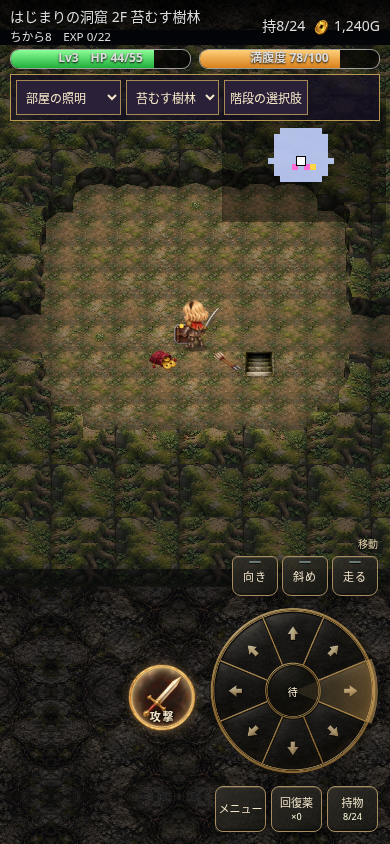
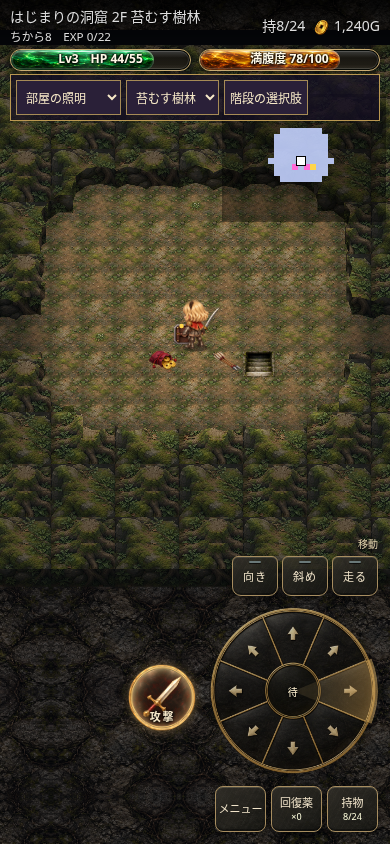
Record production approval and final UI validation

Changed region(s): [[0.0308, 0.0308, 0.9846, 0.0924]]

diff --git a/docs/SPRITE_PRODUCTION_HANDOVER.md b/docs/SPRITE_PRODUCTION_HANDOVER.md
@@ -1,5 +1,11 @@
 # 承認済みキャラクター・武器・盾の制作引き継ぎ
 
+## 本番採用：移動・メニュー・生成UI（2026-10-21）
+
+ユーザーの「いいね、ここまで実装して」でPR #8一式の本番反映を承認。0ターンの向き変更・斜め固定・安全ダッシュ、共通メニュー、横両手と左右片手の操作配置、漆・真鍮の生成8方向円形操作盤、生成剣メダリオン、エメラルド／琥珀の液体宝石バーを採用。以下のPR #8の「main未反映」「確認用」は採用前の制作履歴。ダンジョン内店舗の新システム・店主、新モンスター追加は引き続き別工程。
+
+本編 https://yyvape-dev.github.io/Fushigi/ 、確認画面 https://yyvape-dev.github.io/Fushigi/fushigi-controls-ui-v1/review.html 。セーブの互換性を維持し、確認画面のセーブは分離。生成資料と操作・表示検証は `fushigi-controls-ui-v1/` を参照。
+
 ## 宝石液体のHUDバー（2026-10-21）
 
 ユーザー要望によりHPをエメラルド、満腹度を琥珀の液体宝石へ変更。生成原画 `assets/ui-art/gem-liquid-atlas.png` の上下をCSSで表示し、`assets/gem-bars.css` で真鍮の枠・ガラス反射・控えめな光の揺らぎを加えた。バー幅と数値は既存の実際の値。HP25%以下／満腹度10以下の赤警告は質感を残す色相変更へ移行。動きを減らす設定に対応。3画面サイズで満タン・半分・少量・ゼロ、画像読込、警告色を確認（`check_gem_bars.py`）。生成記録は `source-art/gem-liquid-prompt.txt`。PR #8確認用、main未反映。

diff --git a/docs/HANDOVER.md b/docs/HANDOVER.md
@@ -1,5 +1,11 @@
 # 引き継ぎ資料（Fushigi：シレン風・個人用）
 
+## 本番採用：移動・メニュー・生成UI（2026-10-21）
+
+ユーザーの「いいね、ここまで実装して」でPR #8一式の本番反映を承認。0ターンの向き変更・斜め固定・安全ダッシュ、共通メニュー、横両手と左右片手の操作配置、漆・真鍮の生成8方向円形操作盤、生成剣メダリオン、エメラルド／琥珀の液体宝石バーを採用。以下のPR #8の「main未反映」「確認用」は採用前の制作履歴。ダンジョン内店舗の新システム・店主、新モンスター追加は引き続き別工程。
+
+本編 https://yyvape-dev.github.io/Fushigi/ 、確認画面 https://yyvape-dev.github.io/Fushigi/fushigi-controls-ui-v1/review.html 。セーブの互換性を維持し、確認画面のセーブは分離。生成資料と操作・表示検証は `fushigi-controls-ui-v1/` を参照。
+
 ## 宝石液体のHUDバー（2026-10-21）
 
 ユーザー要望によりHPをエメラルド、満腹度を琥珀の液体宝石へ変更。生成原画 `assets/ui-art/gem-liquid-atlas.png` の上下をCSSで表示し、`assets/gem-bars.css` で真鍮の枠・ガラス反射・控えめな光の揺らぎを加えた。バー幅と数値は既存の実際の値。HP25%以下／満腹度10以下の赤警告は質感を残す色相変更へ移行。動きを減らす設定に対応。3画面サイズで満タン・半分・少量・ゼロ、画像読込、警告色を確認（`check_gem_bars.py`）。生成記録は `source-art/gem-liquid-prompt.txt`。PR #8確認用、main未反映。

diff --git a/fushigi-controls-ui-v1/README.md b/fushigi-controls-ui-v1/README.md
@@ -4,7 +4,7 @@
 
 ## 確認
 
-`review.html` は本編と同じコード＋場面選択。セーブは本編と分離。通常プレイへ切替可能。`assets/controls-ui.js` とCSSを本編へ接続している。main未反映の確認用ブランチ。
+`review.html` は本編と同じコード＋場面選択。セーブは本編と分離。通常プレイへ切替可能。`assets/controls-ui.js` とCSSを本編へ接続している。2026-10-21にユーザーが本番反映を承認（PR #8）。
 
 - タッチ：向き／斜め／走るを押して切替。同じボタンで通常移動へ戻る。向きモードの中央は近い敵へ向く。走る＋方向は押している間のみ。
 - キー：Ctrl＋方向は向き、Alt＋斜め方向は斜め固定、Shift＋方向はダッシュ。矢印の同時押しで斜め入力。Fで近い敵へ向く。従来のWASD／vi／テンキーも維持。
